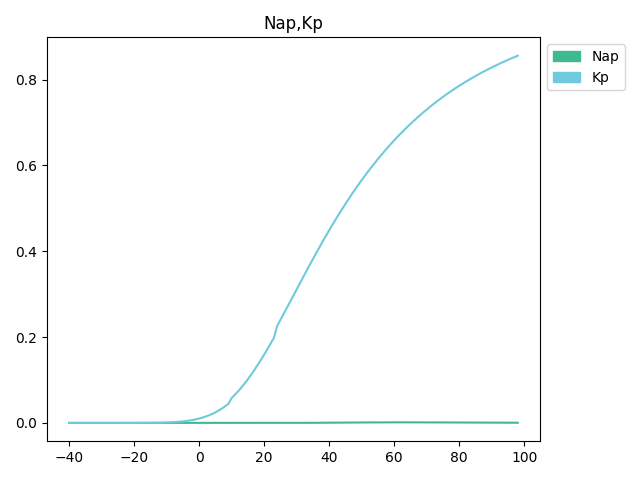
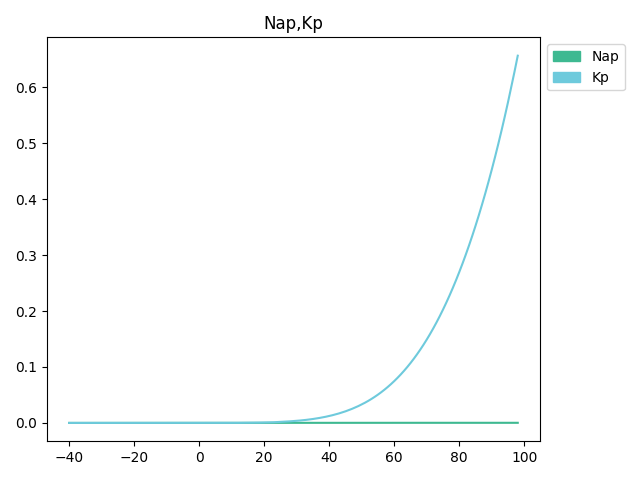
Small updates

diff --git a/cpp_code/Testing.cpp b/cpp_code/Testing.cpp
@@ -8,7 +8,7 @@
 using namespace std;
 
 /*
-THIS FILE IS JUST FOR ME TO TEST THINGIES
+THIS FILE IS JUST FOR ME TO TEST THINGS
 */
 
 double a_n, b_n, a_h, b_h, a_m, b_m;
@@ -53,7 +53,7 @@ double dynamical_h(double V){
     vec_tau_h.push_back(tau_h);
     vec_inf_h.push_back(h_inf);
     //cout << "h: " << h << endl;
-    return(h_inf);
+    return(h_dynamic);
 }
 
 double dynamical_n(double V){
@@ -74,7 +74,7 @@ double dynamical_n(double V){
     vec_tau_n.push_back(tau_n);
     vec_inf_n.push_back(n_inf);
     //cout << "n: " << n << endl;
-    return (n_inf);
+    return (n_dynamic);
 }
 
 double dynamical_m(double V){
@@ -95,7 +95,7 @@ double dynamical_m(double V){
     vec_tau_m.push_back(tau_m);
     vec_inf_m.push_back(m_inf);
     //cout << "m: " << m << endl;
-    return (m_inf);
+    return (m_dynamic);
 }
 
 double Proportion_open(int a, int b, int c){
